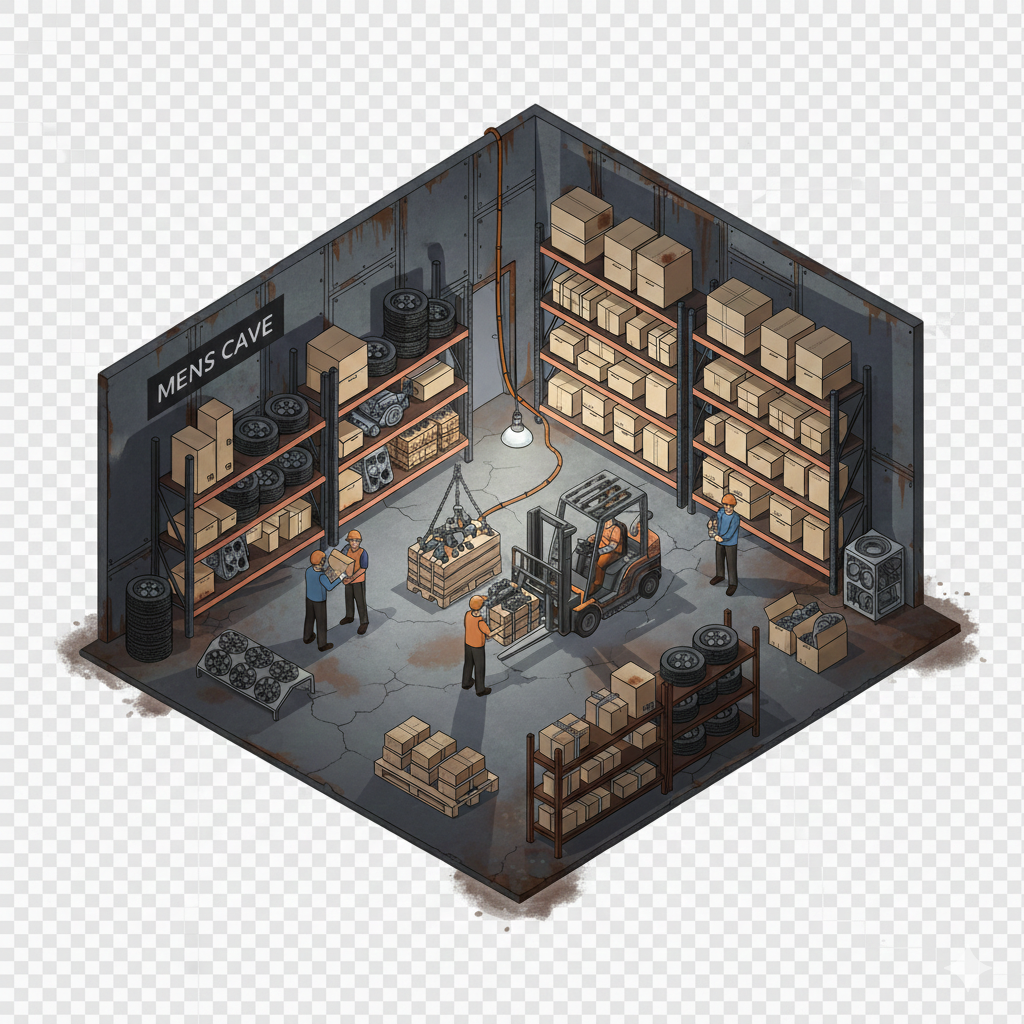
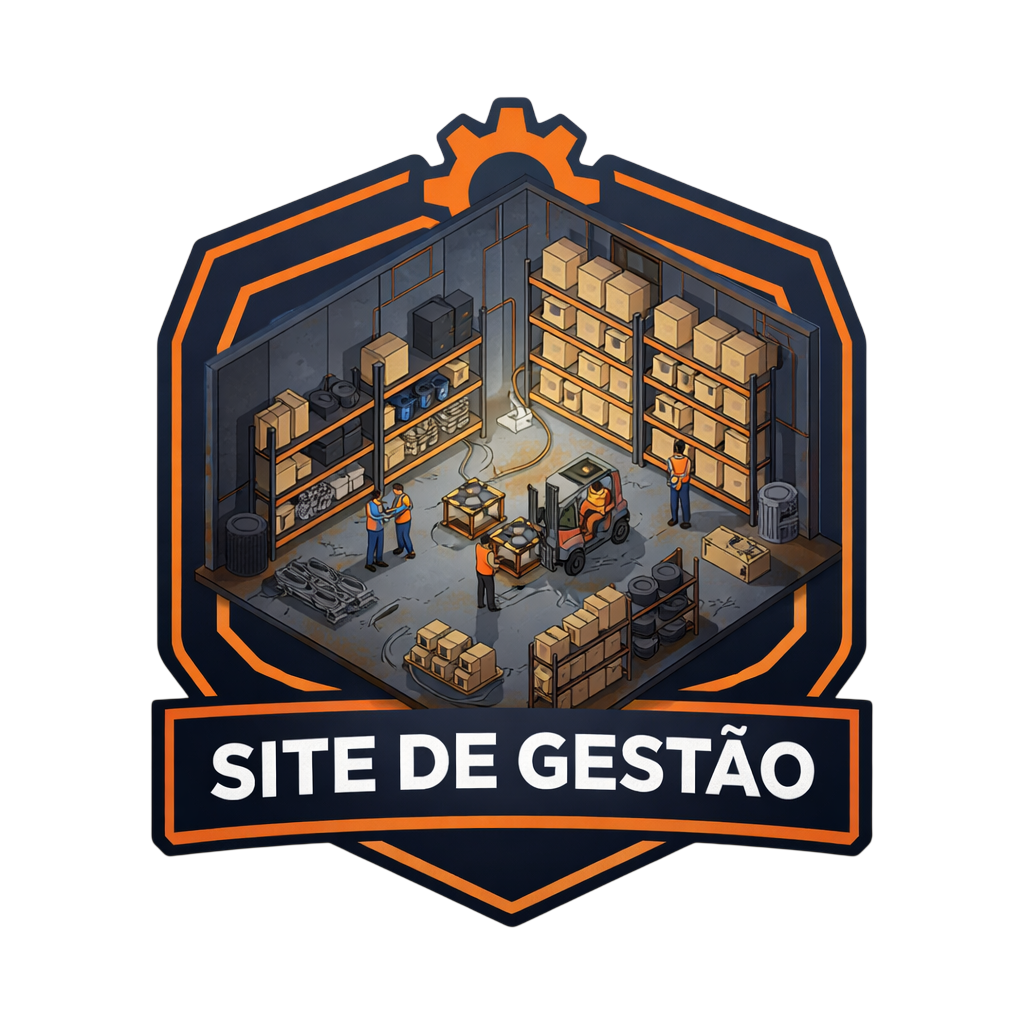
a2

diff --git a/style.css b/style.css
@@ -5,6 +5,17 @@
   color: #e0e0e0;
 }
 
+.logo-container {
+  text-align: center;
+  margin-bottom: 20px;
+}
+
+.logo {
+  max-width: 120px;
+  height: auto;
+  background-color: transparent;
+}
+
 h1 {
   text-align: center;
   color: #64b5f6;

diff --git a/index.html b/index.html
@@ -9,6 +9,10 @@
 </head>
 <body>
 
+  <div class="logo-container">
+    <img src="p.png" alt="Logo" class="logo">
+  </div>
+
   <h1>Gestão de Almoxarifado</h1>
 
   <div class="tab-container">
